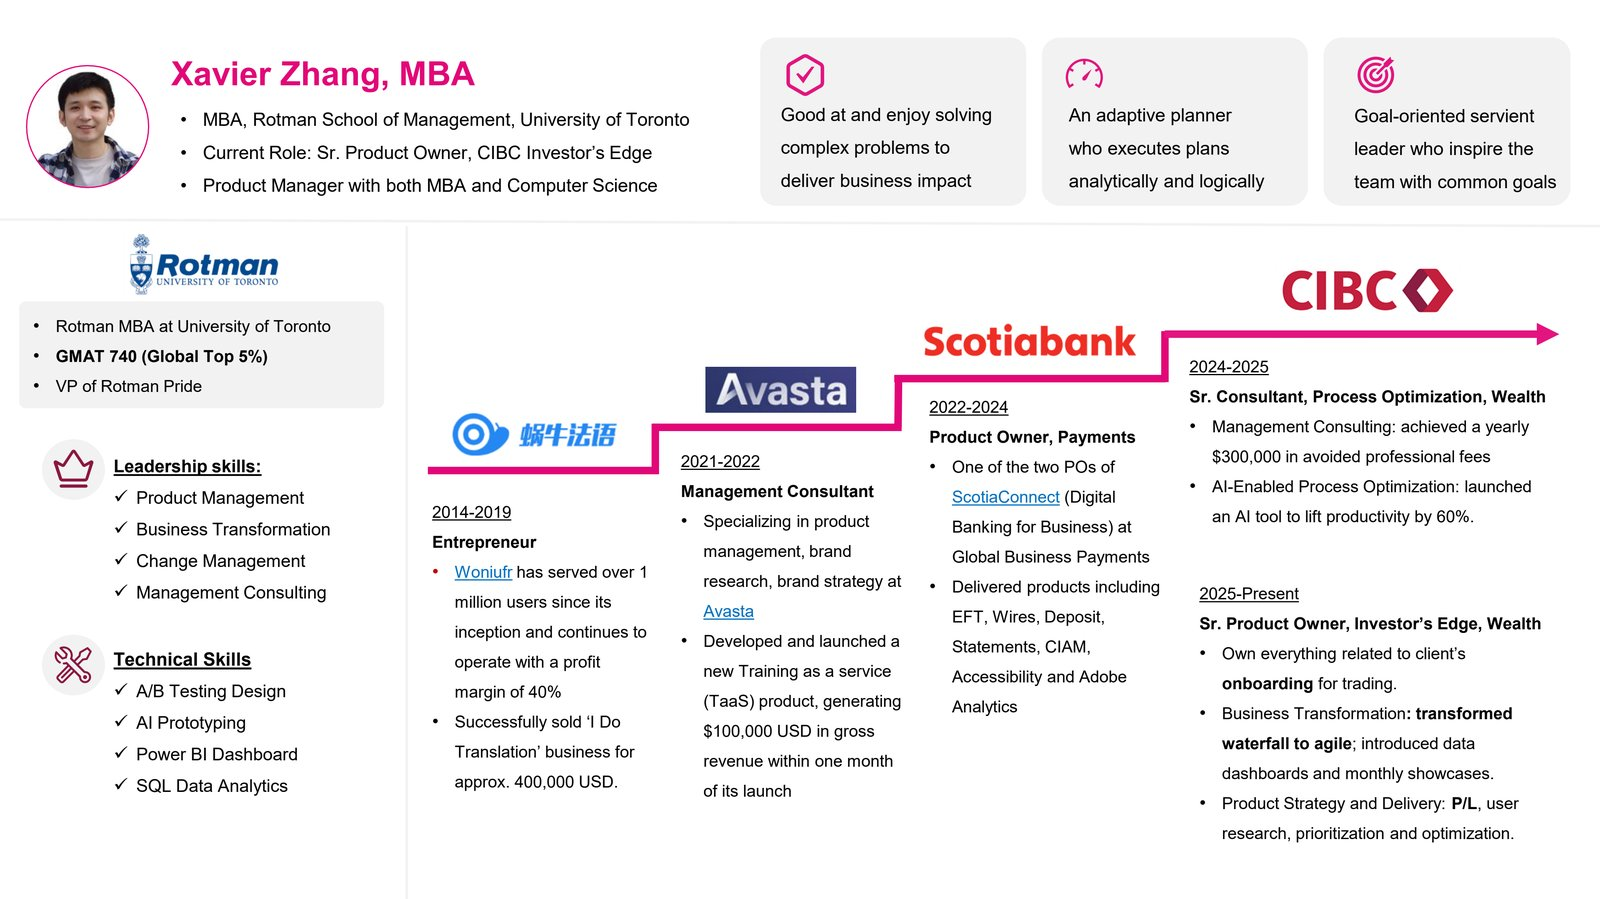
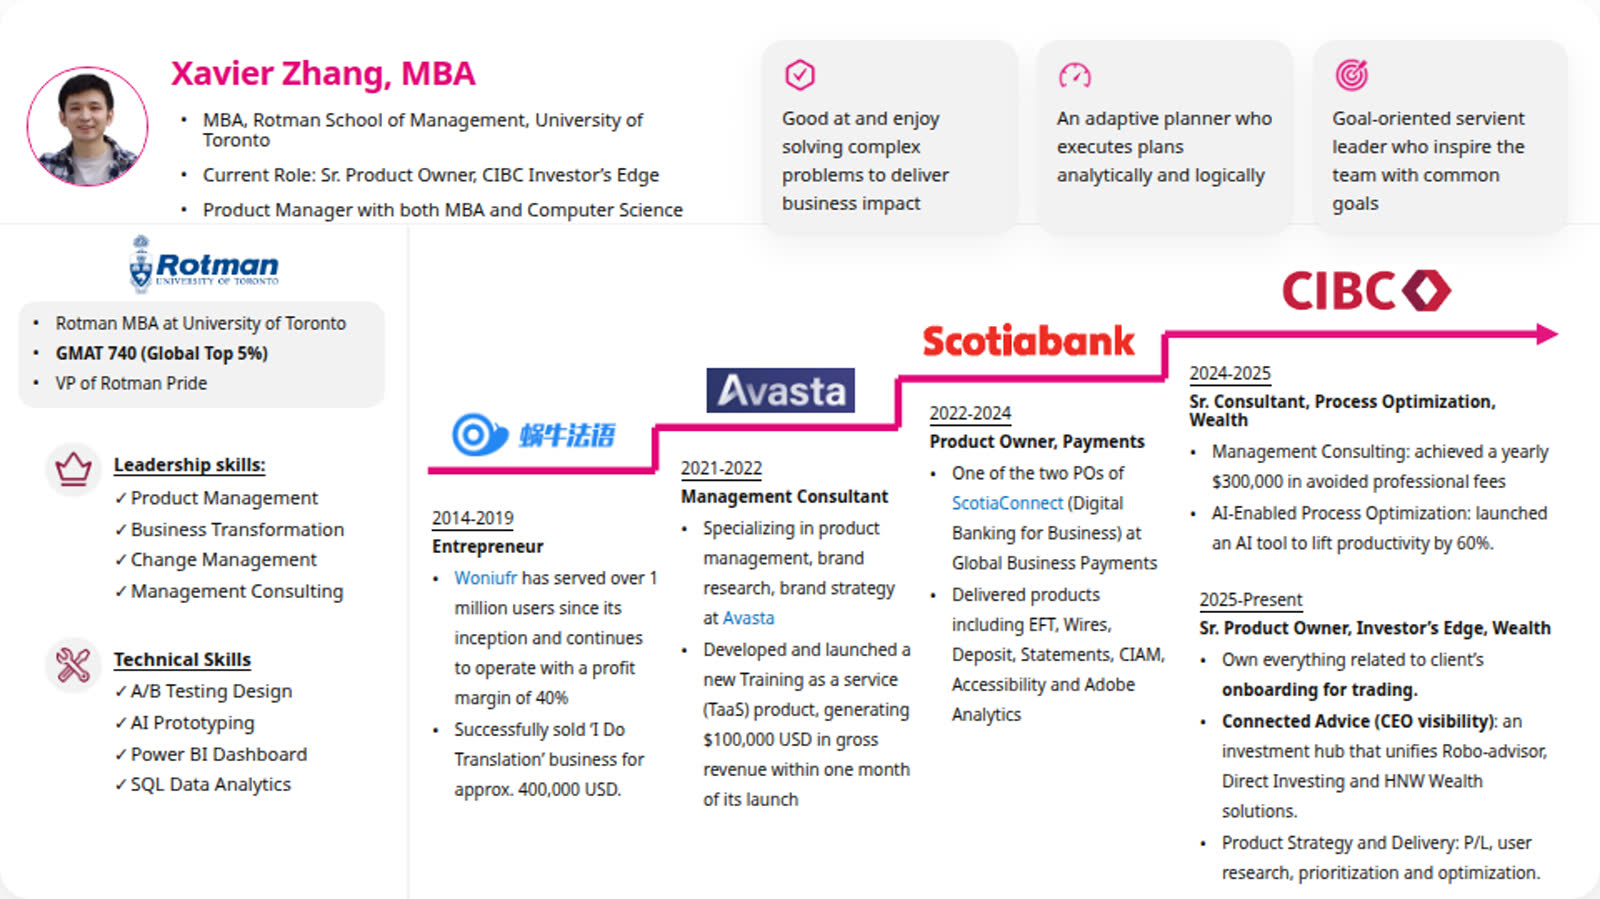
Update Investor's Edge bullet to Connected Advice on career one-pager.
Replace the Agile/business transformation bullet with Connected Advice (CEO visibility) in the About Me one-pager and refresh the embedded card image.

diff --git a/onepager/index.html b/onepager/index.html
@@ -572,7 +572,7 @@
           <div class="title" data-key="r4btitle">Sr. Product Owner, Investor’s Edge, Wealth</div>
           <ul>
             <li data-key="r4bb1">Own everything related to client’s <strong>onboarding for trading.</strong></li>
-            <li data-key="r4bb2">Business Transformation: <strong>transformed waterfall to agile; introduced data</strong> dashboards and monthly showcases.</li>
+            <li data-key="r4bb2"><strong>Connected Advice (CEO visibility)</strong>: an investment hub that unifies Robo-advisor, Direct Investing and HNW Wealth solutions.</li>
             <li data-key="r4bb3">Product Strategy and Delivery: P/L, user research, prioritization and optimization.</li>
           </ul>
         </div>
